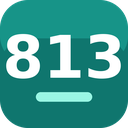
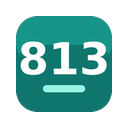
v1.0.4：Chrome 線上應用程式商店上架準備
- 名稱維持不變，但摘要開頭、設定頁標題與隱私權政策都明確標示「非官方」，
  降低被判定冒用機構名義的風險
- 商店圖示改為 96x96 圖案 + 每邊 16px 透明邊距（商店規定）
- 新增 PRIVACY.md 隱私權政策（不蒐集任何資料）
- 新增 webstore/ 目錄：上架填寫內容與商店素材

Claude-Session: https://claude.ai/code/session_01811q4F9Pc9bXYmuBo5XWmq

diff --git a/options.html b/options.html
@@ -10,13 +10,13 @@
     <div class="wrap">
       <header class="head">
         <div>
-          <h1>813國軍桃園總醫院新竹分院 看診進度提醒</h1>
+          <h1>813國軍桃園總醫院新竹分院 看診進度提醒<span class="unofficial">非官方</span></h1>
           <p class="muted small" id="source-line">
             資料來源：
             <a href="http://www.813.com.tw/WebService/link/show_call2.html" target="_blank"
               >看診進度頁面</a
             >
-            ・每分鐘自動查詢一次
+            ・每分鐘自動查詢一次・本工具由個人開發，非醫院官方推出
           </p>
         </div>
         <button id="btn-reload">重新抓取診間清單</button>

diff --git a/options.css b/options.css
@@ -16,6 +16,18 @@
   margin: 0;
 }
 
+.unofficial {
+  display: inline-block;
+  margin-left: 9px;
+  padding: 2px 9px;
+  border-radius: 999px;
+  background: var(--line);
+  color: var(--muted);
+  font-size: 12px;
+  font-weight: 600;
+  vertical-align: 3px;
+}
+
 .card + .card {
   margin-top: 16px;
 }

diff --git a/webstore/上架填寫內容.md b/webstore/上架填寫內容.md
@@ -1,0 +1,214 @@
+# Chrome 線上應用程式商店 上架填寫內容
+
+把這份文件裡的內容照欄位貼進開發人員資訊主頁即可。
+封包：`813-clinic-progress-webstore.zip`　素材：`assets/` 資料夾
+
+---
+
+## 0. 開始之前（這兩件事只有你能做）
+
+1. **註冊開發人員帳號**：<https://chrome.google.com/webstore/devconsole>
+   用你的 Google 帳號登入 → 同意開發人員協議 → **付一次性 5 美元註冊費**（需信用卡）。
+   這筆費用終身有效，一個帳號最多可發布 20 個擴充功能。
+2. **先把隱私權政策放到網路上**（下面第 6 節要填網址）。
+   最簡單的做法：`PRIVACY.md` 已經在 repo 裡，push 之後直接用這個網址：
+   ```
+   https://github.com/goodspeed666/813_hospital_reminder/blob/main/PRIVACY.md
+   ```
+
+---
+
+## 1. 上傳封包
+
+「商品」→「新增商品」→ 上傳 **`813-clinic-progress-webstore.zip`**
+
+已驗證：`manifest.json` 在封包最上層、Manifest V3、圖示齊全、無多餘檔案。
+
+---
+
+## 2. 商店資訊
+
+**名稱**（沿用 manifest，不可在此修改）
+```
+813國軍桃園總醫院新竹分院 看診進度提醒
+```
+
+**摘要**（132 字以內，目前 57 字）
+```
+【非官方】自動定時查詢 813 國軍桃園總醫院新竹分院的看診進度，指定的診間一有異動、或快輪到你的號碼時立即通知。
+```
+
+**詳細說明**
+```
+【本擴充功能由個人開發，非國軍桃園總醫院新竹分院官方推出，未經該院授權或背書。】
+
+看診等待時，不用一直開著看診進度網頁按重新整理。設定好要監看的診間，
+叫號一有異動、或快輪到你的號碼時，Chrome 就會直接跳通知提醒你。
+
+■ 主要功能
+
+・可同時監看多個診間，每個診間的號碼與提醒條件都各自獨立
+・填入自己的看診號碼後，可設定「剩幾號才提醒」（預設剩 3 號），
+　不會每次查詢都被打擾
+・工具列圖示直接顯示目前叫號，快輪到你時會變色，不用點開就看得到
+・點開圖示可看到所有監看診間的即時狀態、你還差幾位、最後更新時間
+・設定頁自動抓取當天的診間清單，依上午／下午／晚上分組，
+　勾選就好，不必手動輸入科別或診間名稱
+・支援淺色與深色模式
+
+■ 通知時機（可各別開關）
+
+・快輪到你了：剩 N 號時提醒，同一個號碼只提醒一次
+・輪到你了 / 已經過號：各提醒一次
+・進度異動：例如「看診進度 46 → 47」
+・開始看診 / 看診結束：狀態改變時各一次
+
+同一個診間使用固定的通知代號，新通知會取代舊的，不會在畫面上堆一整排。
+快輪到你時也不會再重複發一則進度異動通知，避免同一件事跳兩次。
+
+■ 省電設計
+
+監看的診間全部看診結束後會自動停止密集查詢，改為每 30 分鐘確認一次，
+隔天班表出來或診間重新開診時自動恢復，不會整天空轉。
+
+■ 隱私
+
+所有設定都只存在你自己的瀏覽器本機。不需註冊帳號、不蒐集任何個人資料、
+無追蹤、無分析、無廣告。除了讀取醫院公開的看診進度資料之外，
+不會連線到任何其他伺服器。
+
+隱私權政策：https://github.com/goodspeed666/813_hospital_reminder/blob/main/PRIVACY.md
+
+■ 使用須知
+
+・需要 Chrome 保持執行中（視窗最小化沒關係，完全關閉就不會查詢）
+・資料來源為醫院當日班表，因此只查得到當天的診間
+・看診進度以醫院現場公告為準，本工具僅供參考
+
+■ 原始碼
+
+https://github.com/goodspeed666/813_hospital_reminder
+```
+
+**類別**：`工作流程與規劃`（或 `生產力工具`）
+**語言**：`中文（繁體）`
+
+---
+
+## 3. 圖像素材（`assets/` 資料夾）
+
+| 欄位 | 檔案 | 尺寸 | 必填 |
+|---|---|---|---|
+| 螢幕擷取畫面 1 | `screenshot-1.png` | 1280×800 | ✅ 至少 1 張 |
+| 螢幕擷取畫面 2 | `screenshot-2.png` | 1280×800 | |
+| 螢幕擷取畫面 3 | `screenshot-3.png` | 1280×800 | |
+| 螢幕擷取畫面 4 | `screenshot-4.png` | 1280×800 | |
+| 螢幕擷取畫面 5 | `screenshot-5.png` | 1280×800 | |
+| 小型宣傳圖塊 | `promo-small-440x280.png` | 440×280 | 建議填（沒填會排在有填的後面） |
+| 跑馬燈宣傳圖塊 | `promo-marquee-1400x560.png` | 1400×560 | 選填（要被推薦才需要） |
+
+商店圖示不用另外上傳，會直接使用封包裡的 `icons/icon128.png`
+（已依規定做成 96×96 圖案 + 每邊 16px 透明邊距）。
+
+---
+
+## 4. 單一用途說明
+
+```
+本擴充功能的單一用途為：查詢並提醒使用者所指定診間的看診進度。
+
+使用者在設定頁選擇要監看的診間後，擴充功能會定時讀取該醫院公開的
+看診進度資料，並在指定診間的叫號變動、或接近使用者自己的號碼時，
+以桌面通知提醒。所有功能都圍繞這一個用途，沒有其他不相關的功能。
+```
+
+---
+
+## 5. 權限使用理由
+
+**`storage`**
+```
+儲存使用者的設定：要監看哪些診間、使用者自行輸入的看診號碼、
+提醒門檻與通知偏好。全部存放於 chrome.storage.local，不會離開使用者的裝置。
+```
+
+**`alarms`**
+```
+定時觸發看診進度查詢。Manifest V3 的背景 service worker 會被瀏覽器休眠，
+setInterval 等計時器無法可靠運作，因此必須使用 chrome.alarms 排程。
+```
+
+**`notifications`**
+```
+本擴充功能的核心功能就是在看診進度變動或快輪到使用者時，
+以桌面通知提醒。沒有這個權限就無法達成擴充功能的主要用途。
+```
+
+**`offscreen`**
+```
+播放提醒音效。Manifest V3 的背景 service worker 沒有 Audio / Web Audio API，
+必須建立 offscreen document（理由為 AUDIO_PLAYBACK）才能發出提示音。
+音效由 Web Audio 即時產生，未載入任何外部音檔。
+```
+
+**主機權限 `http://www.813.com.tw/*`**
+```
+讀取國軍桃園總醫院新竹分院公開的看診進度資料。這是該院「看診進度」
+網頁本身所使用的公開資料來源，內容僅包含各診間的時段、科別、醫師、
+診間名稱與目前叫號，不含任何病患個人資料。
+
+該網站僅提供 http、未提供 https，因此無法只宣告 https 權限。
+擴充功能不會存取該網域以外的任何網站。
+```
+
+**遠端程式碼**：選「否，我沒有使用遠端程式碼」
+（所有程式碼都在封包內，沒有 eval、沒有載入外部 script）
+
+---
+
+## 6. 隱私權作法
+
+**隱私權政策網址**
+```
+https://github.com/goodspeed666/813_hospital_reminder/blob/main/PRIVACY.md
+```
+
+**資料使用聲明**：以下所有類別**全部不勾選**（本擴充功能不蒐集任何資料）
+
+- ☐ 個人識別資訊　☐ 健康資訊　☐ 財務與付款資訊　☐ 驗證資訊
+- ☐ 個人通訊內容　☐ 位置資訊　☐ 網頁瀏覽紀錄　☐ 使用者活動　☐ 網站內容
+
+**三項聲明全部勾選「是」**
+
+- ✅ 我不會將使用者資料販售給第三方（不在核准的使用情境內）
+- ✅ 我不會將使用者資料用於或轉移至與商品單一用途無關的用途
+- ✅ 我不會將使用者資料用於或轉移至判斷信用狀況或提供貸款的用途
+
+---
+
+## 7. 發布設定
+
+**瀏覽權限**：`公開`
+**發布地區**：可只選「台灣」——這個工具只對該院病患有意義，
+縮小範圍也能降低被誤檢舉的機率。
+
+送出後進入審核，一般幾小時到數個工作天。
+含主機權限的擴充功能可能被抽到人工審核，會久一點。
+
+---
+
+## 8. 一個要有心理準備的風險
+
+商店的「冒充與智慧財產權」政策規定：不得讓人誤以為你的產品經過該組織授權。
+名稱裡帶有醫院全名，即使描述已註明非官方，仍有被審核判定冒用機構名義的可能，
+醫院方也有權要求下架。
+
+已經做的降低風險措施：摘要開頭就是「【非官方】」、詳細說明第一行是完整免責聲明、
+設定頁標題旁有「非官方」標籤、隱私權政策裡也寫明未經該院授權或背書。
+
+**如果被退件且理由與名稱有關**，把 `manifest.json` 的 `name` 改成下面這個、
+版本號加一，重新上傳即可（其他內容都不用動）：
+
+```json
+"name": "813 看診進度提醒（非官方）",
+```

diff --git a/PRIVACY.md b/PRIVACY.md
@@ -1,0 +1,79 @@
+# 隱私權政策
+
+**擴充功能名稱**：813國軍桃園總醫院新竹分院 看診進度提醒（非官方）
+**最後更新**：2026 年 8 月 4 日
+
+## 簡短版
+
+這個擴充功能**不會蒐集、傳送或儲存任何個人資料到開發者或第三方的伺服器**。
+所有設定都只留在你自己的瀏覽器裡。
+
+---
+
+## 我們不做的事
+
+- 不蒐集個人資料（姓名、電子郵件、電話、身分證字號、地址等一律不蒐集）
+- 不蒐集健康或醫療資訊
+- 不要求註冊帳號，也沒有登入機制
+- 不使用 Cookie、追蹤程式碼、分析工具或廣告 SDK
+- 不記錄你的瀏覽紀錄或其他分頁的內容
+- 不將任何資料販售或分享給第三方
+- 不將資料用於與本擴充功能單一用途無關的任何目的
+- 不將資料用於判斷信用狀況或貸款資格
+
+## 本擴充功能儲存了什麼
+
+以下資料儲存在瀏覽器本機的 `chrome.storage.local`，**不會離開你的裝置**，
+移除擴充功能時會一併刪除：
+
+| 項目 | 說明 |
+|---|---|
+| 監看清單 | 你勾選的時段、科別、診間名稱 |
+| 我的號碼 | 你自行輸入的看診號碼（純數字，不含任何身分資訊） |
+| 通知偏好 | 更新頻率、音效、通知是否常駐、徽章顯示設定 |
+| 最近一次查詢結果 | 從醫院網站取得的當日看診進度，供面板顯示用 |
+
+「我的號碼」是你手動輸入的當日看診序號，本擴充功能不會、也無法將它與任何身分連結。
+
+## 對外連線
+
+本擴充功能只會連線到一個網址——國軍桃園總醫院新竹分院公開的看診進度資料：
+
+```
+http://www.813.com.tw/WebService/WebService.asmx/HISAPI?_Str=<base64>
+```
+
+這是該院「看診進度」網頁本身所使用的公開資料來源，內容為當日各診間的
+時段、科別、醫師、診間名稱與目前叫號，**不包含任何病患個人資料**。
+
+查詢時只送出上述固定網址，不會夾帶你的任何設定或號碼。
+除此之外，本擴充功能不會連線到任何其他伺服器，也不會連線到開發者的伺服器
+（開發者並未架設任何伺服器）。
+
+該網站僅提供 http、未提供 https，因此 `manifest.json` 中的主機權限為
+`http://www.813.com.tw/*`。
+
+## 權限說明
+
+| 權限 | 用途 |
+|---|---|
+| `storage` | 儲存上述設定於本機 |
+| `alarms` | 定時觸發查詢（MV3 背景服務會休眠，計時器不可靠） |
+| `notifications` | 顯示看診進度提醒，這是本擴充功能的核心功能 |
+| `offscreen` | 播放提示音（背景服務沒有音訊 API） |
+| `http://www.813.com.tw/*` | 讀取上述公開的看診進度資料 |
+
+## 與醫院的關係
+
+本擴充功能由個人開發，**非國軍桃園總醫院新竹分院官方推出，也未經該院授權或背書**。
+所使用的資料為該院公開網頁提供的內容。看診進度以醫院現場公告為準，
+本工具僅供參考，因資料延遲或錯誤造成的任何不便，開發者不負賠償責任。
+
+## 原始碼
+
+本擴充功能為開放原始碼，可自行檢視：
+https://github.com/goodspeed666/813_hospital_reminder
+
+## 聯絡方式
+
+如對本隱私權政策有任何疑問，請透過上述 GitHub repo 的 Issues 頁面聯絡。
